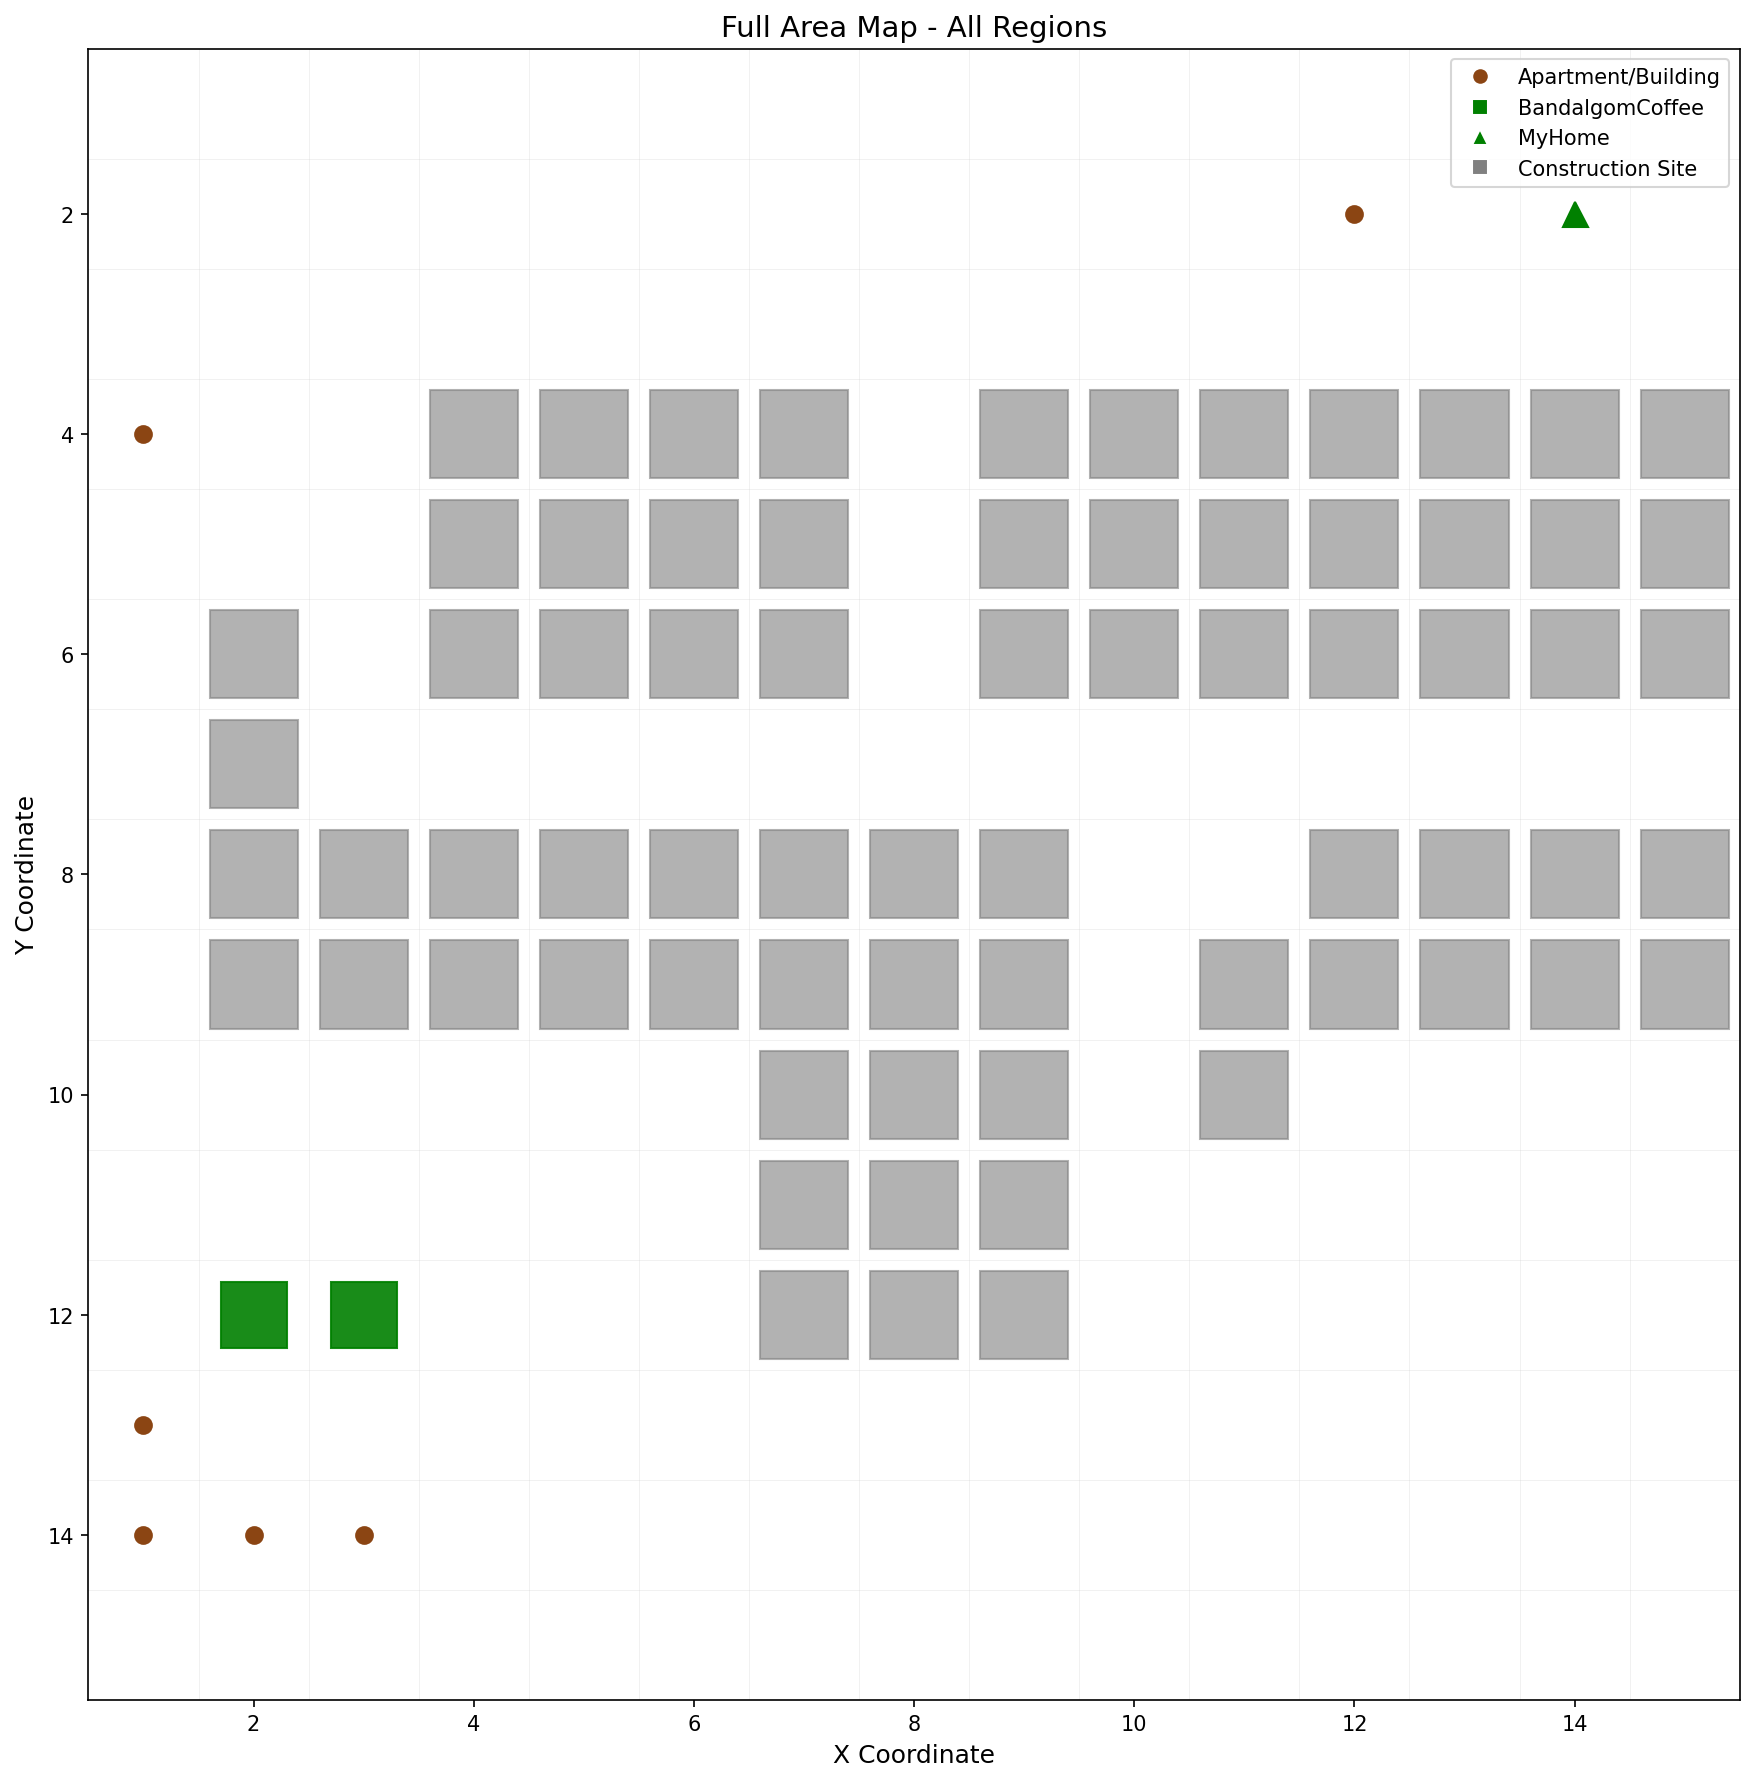
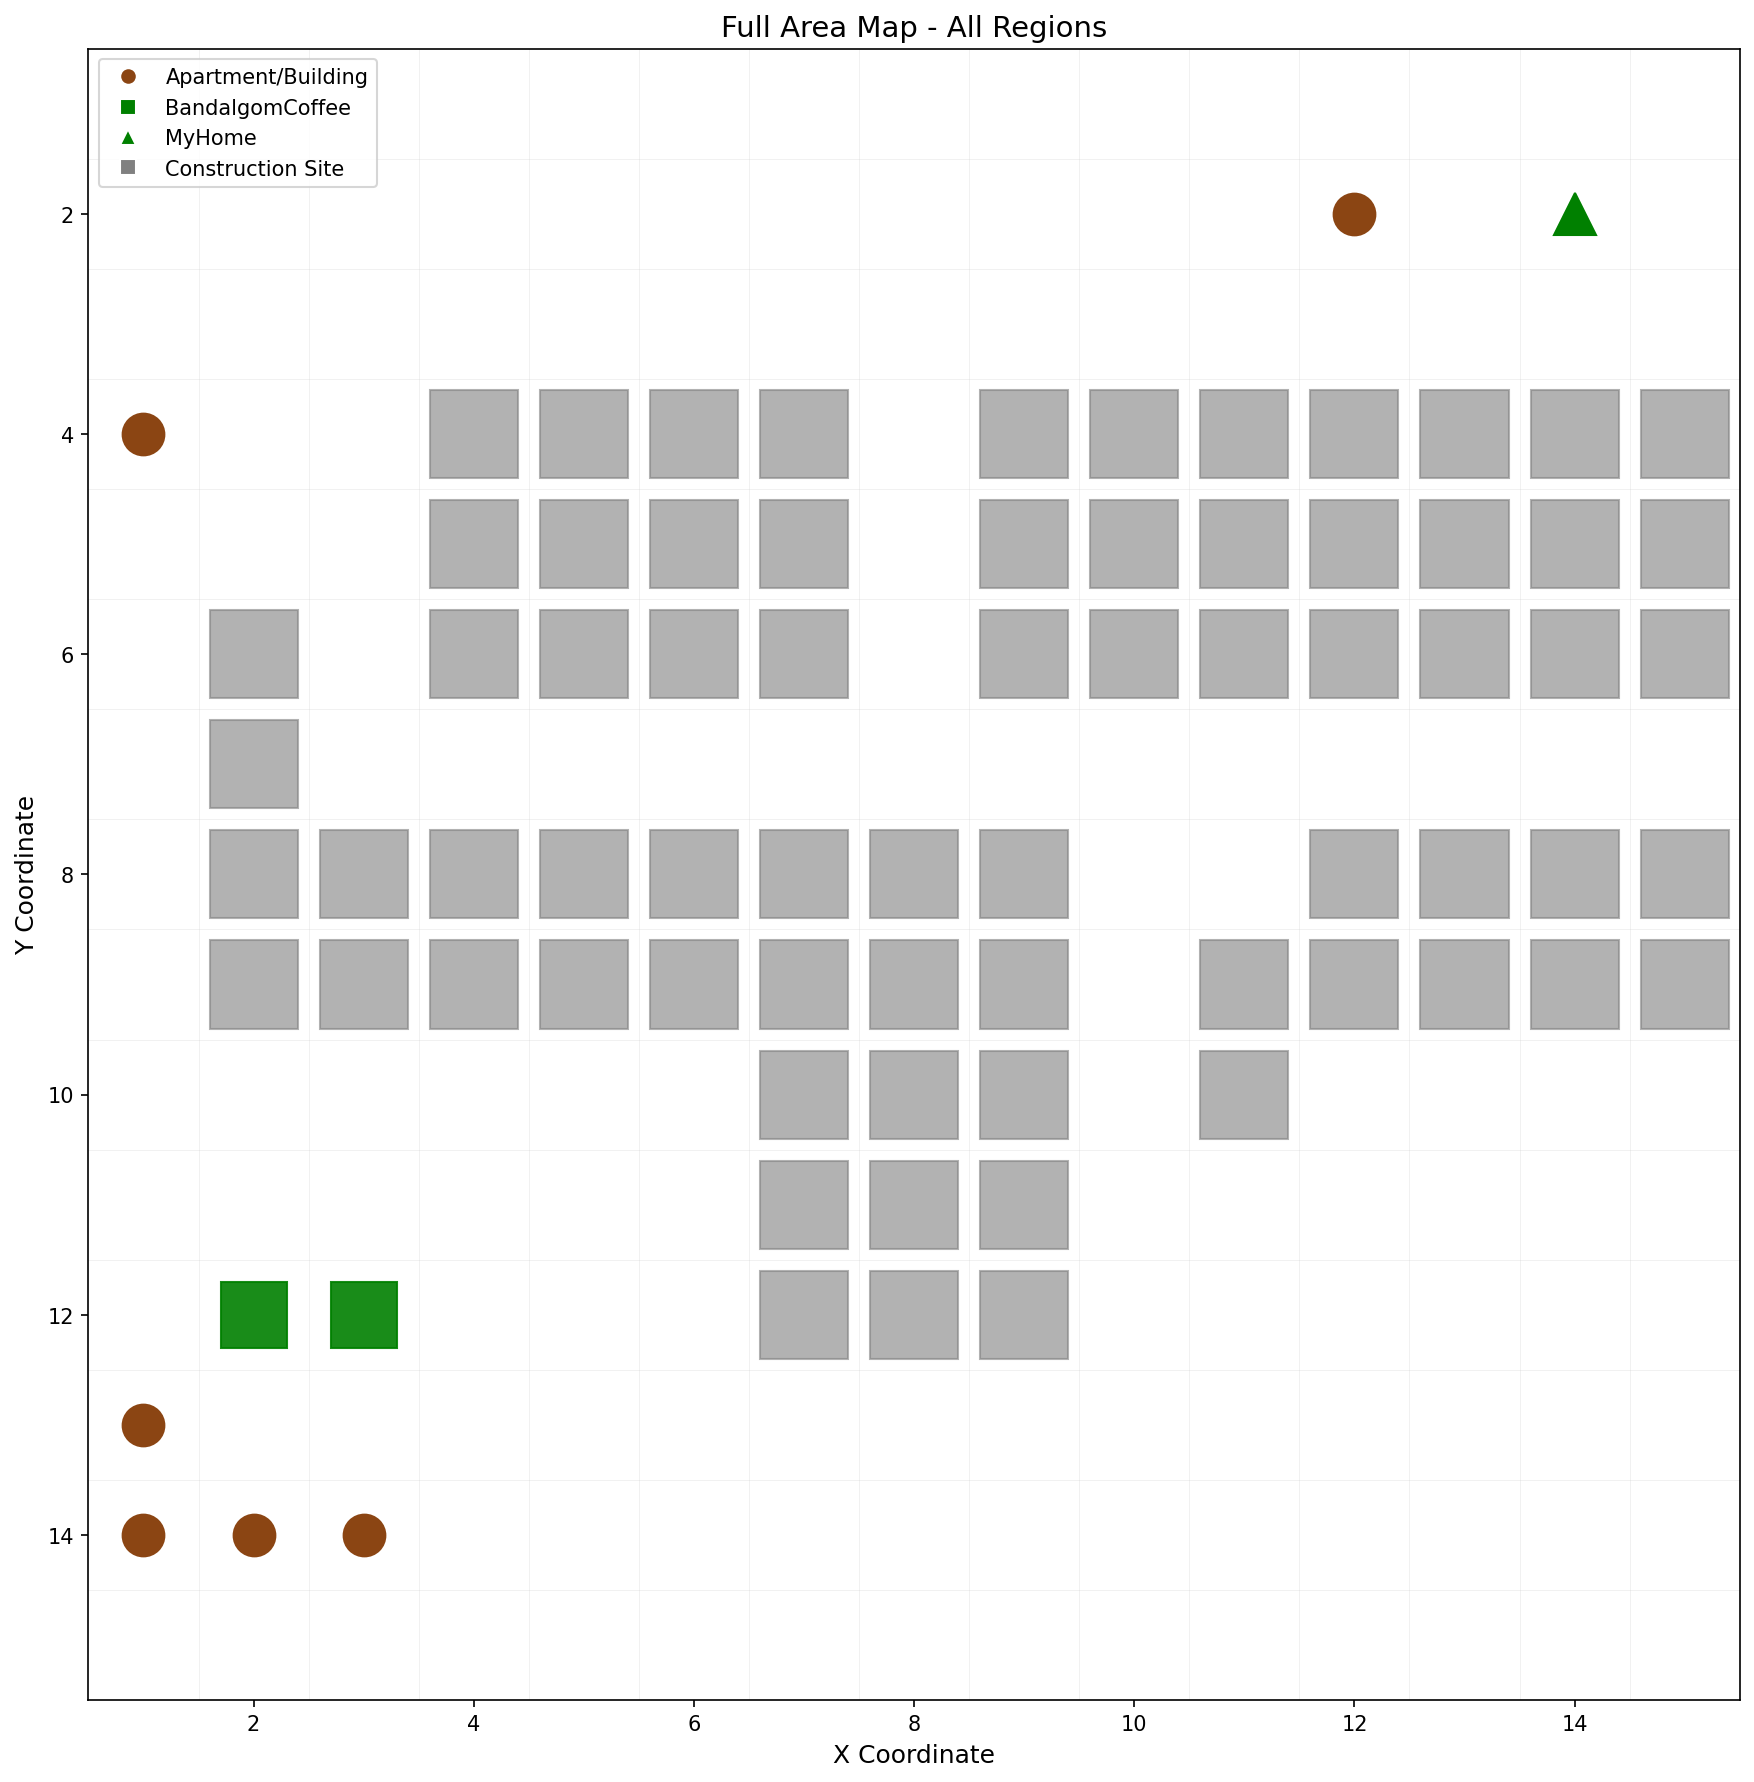
edit map_draw.py and map_direct_save.py

diff --git a/src/map_direct_save.py b/src/map_direct_save.py
@@ -27,22 +27,22 @@ class PathFinder:
         self.data_frame['struct'] = self.data_frame['struct'].replace('nan', '')
         
         # 시작점과 도착점 찾기
-        self.start_pos = self._find_structure_position('MyHome')
-        self.cafe_pos = self._find_structure_position('BandalgomCoffee')
-        self.all_structure_positions = self._find_all_structure_positions()
+        self.start_pos = self.find_structure_position('MyHome')
+        self.cafe_pos = self.find_structure_position('BandalgomCoffee')
+        self.all_structure_positions = self.find_all_structure_positions()
         
         print(f'시작점 (MyHome): {self.start_pos}')
         print(f'도착점 (BandalgomCoffee): {self.cafe_pos}')
         print(f'모든 구조물 위치: {self.all_structure_positions}')
         
-    def _find_structure_position(self, structure_name):
+    def find_structure_position(self, structure_name):
         """특정 구조물의 위치를 찾는 함수"""
         result = self.data_frame[self.data_frame['struct'] == structure_name]
         if result.empty:
             raise ValueError(f'{structure_name}을 찾을 수 없습니다.')
         return (int(result.iloc[0]['x']), int(result.iloc[0]['y']))
     
-    def _find_all_structure_positions(self):
+    def find_all_structure_positions(self):
         """모든 구조물의 위치를 찾는 함수"""
         structures = []
         structure_types = ['MyHome', 'BandalgomCoffee', 'Apartment', 'Building']
@@ -54,8 +54,8 @@ class PathFinder:
         
         return list(set(structures))  # 중복 제거
     
-    def _is_valid_position(self, x_coord, y_coord):
-        """유효한 위치인지 확인 (경계 내부이고 건설현장이 아님)"""
+    def is_valid_position(self, x_coord, y_coord):
+        """유효한 위치인지 확인 (경계 내부이고 건설현장이 아닌 경우)"""
         if (x_coord < self.min_x or x_coord > self.max_x or 
             y_coord < self.min_y or y_coord > self.max_y):
             return False
@@ -70,7 +70,7 @@ class PathFinder:
         
         return True
     
-    def _get_neighbor_positions(self, position):
+    def get_neighbor_positions(self, position):
         """인접한 유효한 위치들을 반환"""
         x_coord, y_coord = position
         neighbors = []
@@ -79,19 +79,19 @@ class PathFinder:
         directions = [(0, 1), (0, -1), (1, 0), (-1, 0)]
         for delta_x, delta_y in directions:
             new_x, new_y = x_coord + delta_x, y_coord + delta_y
-            if self._is_valid_position(new_x, new_y):
+            if self.is_valid_position(new_x, new_y):
                 neighbors.append((new_x, new_y))
         
         # 대각선 4방향
         diagonal_directions = [(1, 1), (1, -1), (-1, 1), (-1, -1)]
         for delta_x, delta_y in diagonal_directions:
             new_x, new_y = x_coord + delta_x, y_coord + delta_y
-            if self._is_valid_position(new_x, new_y):
+            if self.is_valid_position(new_x, new_y):
                 neighbors.append((new_x, new_y))
         
         return neighbors
     
-    def _calculate_distance(self, position1, position2):
+    def calculate_distance(self, position1, position2):
         """두 위치 간의 유클리드 거리 계산"""
         return ((position1[0] - position2[0])**2 + (position1[1] - position2[1])**2)**0.5
     
@@ -108,7 +108,7 @@ class PathFinder:
             current_position, path = queue.popleft()
             
             # 인접 노드들 확인
-            for neighbor in self._get_neighbor_positions(current_position):
+            for neighbor in self.get_neighbor_positions(current_position):
                 if neighbor in visited_nodes:
                     continue
                 
@@ -246,81 +246,71 @@ def save_path_to_dataframe(path, file_name):
         return None
 
 
-def create_map_visualization(data_frame, path, file_name='map_final.png', map_title='Path Finding Map'):
-    """지도와 경로를 시각화"""
-    figure, axes = plt.subplots(figsize=(14, 12))
-    axes.set_aspect('equal')
-    
-    max_x = int(data_frame['x'].max())
-    max_y = int(data_frame['y'].max())
-    min_x = int(data_frame['x'].min())
-    min_y = int(data_frame['y'].min())
-    
-    # 좌측 상단이 (1,1)이 되도록 설정
-    axes.set_xlim(min_x - 0.5, max_x + 0.5)
-    axes.set_ylim(max_y + 0.5, min_y - 0.5)  # y축 뒤집기
-    
-    # 격자 그리기
-    for x_coord in range(min_x, max_x + 1):
-        axes.axvline(x_coord + 0.5, color='lightgray', linewidth=0.5, alpha=0.7)
-    for y_coord in range(min_y, max_y + 1):
-        axes.axhline(y_coord + 0.5, color='lightgray', linewidth=0.5, alpha=0.7)
-    
-    # 구조물 시각화
-    for _, row in data_frame.iterrows():
-        x_coord, y_coord = int(row['x']), int(row['y'])
-        structure_type = row['struct']
+def create_map_visualization(df, path, file_name='map_final.png', map_title='Path Finding Map'):
+    """지도와 경로를 시각화하는 함수"""
+    df['struct'] = df['struct'].astype(str).str.strip()
+    df['struct'] = df['struct'].replace(['None', 'nan'], '')
+
+    fig, ax = plt.subplots(figsize=(15, 12))
+    ax.set_aspect('equal')
+
+    max_x = int(df['x'].max())
+    max_y = int(df['y'].max())
+    min_x = int(df['x'].min())
+    min_y = int(df['y'].min())
+
+    ax.set_xlim(min_x - 0.5, max_x + 0.5)
+    ax.set_ylim(max_y + 0.5, min_y - 0.5)
+
+    for x in range(min_x, max_x + 1):
+        ax.axvline(x + 0.5, color='lightgray', linewidth=0.3, alpha=0.5)
+    for y in range(min_y, max_y + 1):
+        ax.axhline(y + 0.5, color='lightgray', linewidth=0.3, alpha=0.5)
+
+    for _, row in df.iterrows():
+        x, y = int(row['x']), int(row['y'])
+        struct = row['struct']
         is_construction = row['ConstructionSite'] == 1
-        
+
         if is_construction:
-            axes.add_patch(Rectangle((x_coord - 0.4, y_coord - 0.4), 0.8, 0.8, 
-                                   color='gray', alpha=0.8))
-        elif structure_type == 'Apartment' or structure_type == 'Building':
-            axes.plot(x_coord, y_coord, 'o', color='saddlebrown', markersize=12)
-        elif structure_type == 'BandalgomCoffee':
-            axes.add_patch(Rectangle((x_coord - 0.3, y_coord - 0.3), 0.6, 0.6,
-                                   color='orange', alpha=0.8))
-            axes.text(x_coord, y_coord, 'C', ha='center', va='center', 
-                     fontsize=8, fontweight='bold', color='white')
-        elif structure_type == 'MyHome':
-            axes.add_patch(Rectangle((x_coord - 0.3, y_coord - 0.3), 0.6, 0.6,
-                                   color='green', alpha=0.8))
-            axes.text(x_coord, y_coord, 'H', ha='center', va='center', 
-                     fontsize=8, fontweight='bold', color='white')
-    
-    # 경로를 빨간 선으로 그리기
+            ax.add_patch(Rectangle((x - 0.4, y - 0.4), 0.8, 0.8, color='gray', alpha=0.6))
+        elif struct in ['Apartment', 'Building']:
+            ax.plot(x, y, 'o', color='saddlebrown', markersize=20)
+        elif struct == 'BandalgomCoffee':
+            ax.add_patch(Rectangle((x - 0.3, y - 0.3), 0.6, 0.6, color='green', alpha=0.9))
+        elif struct == 'MyHome':
+            ax.plot(x, y, marker='^', color='green', markersize=20)
+
     if path and len(path) > 1:
-        path_x_coords = [position[0] for position in path]
-        path_y_coords = [position[1] for position in path]
-        axes.plot(path_x_coords, path_y_coords, 'r-', linewidth=3, alpha=0.8, label='path')
-        
-        # 시작점과 끝점 표시
-        axes.plot(path_x_coords[0], path_y_coords[0], 'go', markersize=15, label='start')
-        axes.plot(path_x_coords[-1], path_y_coords[-1], 'ro', markersize=15, label='end')
-    
-    # 범례 추가
+        path_x_coords = [pos[0] for pos in path]
+        path_y_coords = [pos[1] for pos in path]
+        ax.plot(path_x_coords, path_y_coords, 'r-', linewidth=3, alpha=0.8, label='Path')
+        # path가 시작 및 끝에 구조물을 가리지 않기 위해 markersize를 0으로 설정
+        ax.plot(path_x_coords[0], path_y_coords[0], 'go', markersize=0, label='Start')
+        ax.plot(path_x_coords[-1], path_y_coords[-1], 'ro', markersize=0, label='End')
+
+    # 범례
     legend_elements = [
-        Line2D([0], [0], marker='s', color='w', markerfacecolor='green', 
-               markersize=10, label='MyHome'),
-        Line2D([0], [0], marker='s', color='w', markerfacecolor='orange', 
-               markersize=10, label='BandalgomCoffee'),
-        Line2D([0], [0], marker='o', color='w', markerfacecolor='saddlebrown', 
-               markersize=10, label='Apartment/Building'),
-        Line2D([0], [0], marker='s', color='w', markerfacecolor='gray', 
-               markersize=10, label='ConstructionSite'),
-        Line2D([0], [0], color='red', linewidth=3, label='path')
+        Line2D([0], [0], marker='o', color='w', label='Apartment/Building',
+               markerfacecolor='saddlebrown', markersize=8),
+        Line2D([0], [0], marker='s', color='w', label='BandalgomCoffee',
+               markerfacecolor='green', markersize=8),
+        Line2D([0], [0], marker='^', color='w', label='MyHome',
+               markerfacecolor='green', markersize=8),
+        Line2D([0], [0], marker='s', color='w', label='Construction Site',
+               markerfacecolor='gray', markersize=8),
+        Line2D([0], [0], color='red', linewidth=3, label='Path')
     ]
-    axes.legend(handles=legend_elements, loc='upper right')
-    
-    axes.set_title(map_title, fontsize=16, fontweight='bold')
-    axes.set_xlabel('X', fontsize=12)
-    axes.set_ylabel('Y', fontsize=12)
-    
+    ax.legend(handles=legend_elements, loc='upper left', fontsize=10)
+
+    ax.set_title(map_title, fontsize=14)
+    ax.set_xlabel('X Coordinate', fontsize=12)
+    ax.set_ylabel('Y Coordinate', fontsize=12)
+
     plt.tight_layout()
     plt.savefig(file_name, dpi=300, bbox_inches='tight')
-    plt.show()
+    plt.close()
     print(f'지도가 {file_name}에 저장되었습니다.')
-
 
 def main():
     """메인 실행 함수"""

diff --git a/src/map_draw.py b/src/map_draw.py
@@ -16,7 +16,7 @@ def draw_full_area_map():
         df['struct'] = df['struct'].replace('None', '')
         df['struct'] = df['struct'].replace('nan', '')
         
-    except FileNotFoundError:
+    except FileNotFoundError: # 파일 에러 있을 경우 출력
         print('result/full_map.csv 파일이 없습니다.')
         return
         
@@ -48,12 +48,12 @@ def draw_full_area_map():
             ax.add_patch(Rectangle((x - 0.4, y - 0.4), 0.8, 0.8, 
                                  color='gray', alpha=0.6))
         elif struct == 'Apartment' or struct == 'Building':
-            ax.plot(x, y, 'o', color='saddlebrown', markersize=8)
+            ax.plot(x, y, 'o', color='saddlebrown', markersize=20)
         elif struct == 'BandalgomCoffee':
             ax.add_patch(Rectangle((x - 0.3, y - 0.3), 0.6, 0.6, 
                                  color='green', alpha=0.9))
         elif struct == 'MyHome':
-            ax.plot(x, y, marker='^', color='green', markersize=12)
+            ax.plot(x, y, marker='^', color='green', markersize=20)
     
     # 범례
     legend_elements = [
@@ -66,7 +66,7 @@ def draw_full_area_map():
         Line2D([0], [0], marker='s', color='w', label='Construction Site',
                markerfacecolor='gray', markersize=8),
     ]
-    ax.legend(handles=legend_elements, loc='upper right', fontsize=10)
+    ax.legend(handles=legend_elements, loc='upper left', fontsize=10)
     
     ax.set_xlabel('X Coordinate', fontsize=12)
     ax.set_ylabel('Y Coordinate', fontsize=12)
